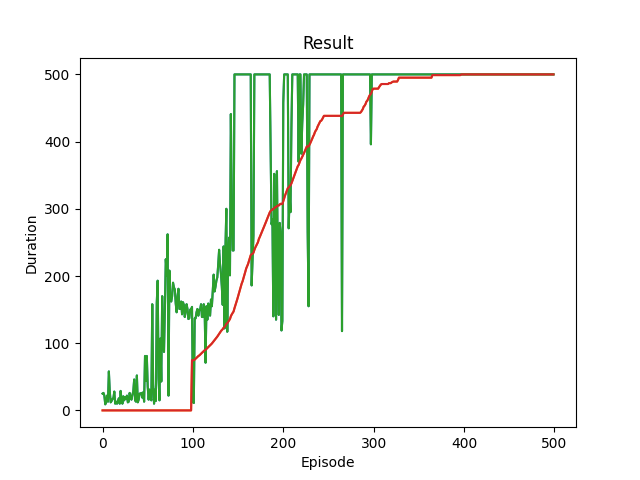
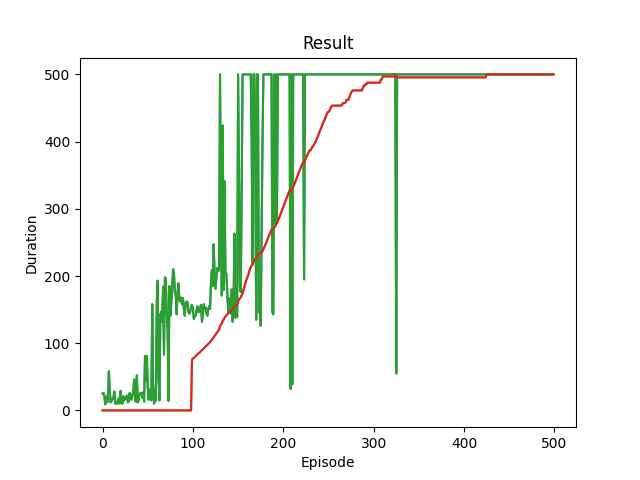
Update

Changed region(s): [[0.25, 0.125, 0.75, 0.8438]]

diff --git a/budi-cartpole-dqn.py b/budi-cartpole-dqn.py
@@ -44,21 +44,6 @@ def plot_durations(episode_durations, show_result=False):
             display.display(plt.gcf())
 
 def train_dqn(env, dqn_agent, num_episodes: int, seed: int, device, draw_chart: bool = False):
-    # random.seed(seed)
-    # torch.manual_seed(seed)
-    # env.reset(seed=seed)
-    # env.action_space.seed(seed)
-    # env.observation_space.seed(seed)
-
-    # if torch.cuda.is_available():
-    #     torch.cuda.manual_seed(seed)
-    
-    n_actions = env.action_space.n
-    state, info = env.reset()
-    n_observations = len(state)
-    print("dqn learning v1.30")
-
-    #dqn_agent = DQNAgent(n_observations, n_actions)
     episode_durations = []
 
     for i_episode in range(num_episodes):
@@ -67,16 +52,16 @@ def train_dqn(env, dqn_agent, num_episodes: int, seed: int, device, draw_chart: 
         for t in count():
             action = dqn_agent.select_action(state)
             observation, reward, terminated, truncated, _ = env.step(action.item())
-            next_state = torch.tensor(observation, dtype=torch.float32, device=device).unsqueeze(0)
             reward = torch.tensor([reward], device=device)
+            next_state = torch.tensor(observation, dtype=torch.float32, device=device).unsqueeze(0)
             dqn_agent.update(state, action, next_state, reward, terminated, truncated)
-            state = next_state
             if terminated or truncated:
                 episode_durations.append(t + 1)
                 print("episode ", i_episode, ", reward: ", t)
                 if draw_chart:
                     plot_durations(episode_durations)
                 break
+            state = next_state
     if draw_chart:
         plot_durations(episode_durations, True)
         plt.ioff()
@@ -92,10 +77,6 @@ if __name__ == "__main__":
     )
     seed = 42
     env = gym.make("CartPole-v1")
-    num_episodes = 500
-    n_observations = 4
-    n_actions = 2
-    # set seed before creating agent
     random.seed(seed)
     torch.manual_seed(seed)
     env.reset(seed=seed)
@@ -103,6 +84,10 @@ if __name__ == "__main__":
     env.observation_space.seed(seed)
     if torch.cuda.is_available():
         torch.cuda.manual_seed(seed)
+    n_actions = env.action_space.n
+    state, info = env.reset()
+    n_observations = len(state) #4
+    num_episodes = 500
     dqn_agent = DQNAgent(n_observations, n_actions, env, device)
     draw_chart = True
     train_dqn(env, dqn_agent, num_episodes, seed, device, draw_chart)

diff --git a/cartpole-dqn.py b/cartpole-dqn.py
@@ -13,8 +13,6 @@ import torch.nn.functional as F
 from dqn import DQN
 from replay_memory import Transition, ReplayMemory
 
-env = gym.make("CartPole-v1")
-
 # set up matplotlib
 is_ipython = 'inline' in matplotlib.get_backend()
 if is_ipython:
@@ -39,6 +37,7 @@ device = torch.device(
 
 
 seed = 42
+env = gym.make("CartPole-v1")
 random.seed(seed)
 torch.manual_seed(seed)
 env.reset(seed=seed)
@@ -68,9 +67,7 @@ LR = 3e-4
 n_actions = env.action_space.n
 # Get the number of state observations
 state, info = env.reset()
-n_observations = len(state)
-print("n_observations:", n_observations)
-
+n_observations = len(state) #4
 policy_net = DQN(n_observations, n_actions).to(device)
 target_net = DQN(n_observations, n_actions).to(device)
 target_net.load_state_dict(policy_net.state_dict())
@@ -98,6 +95,7 @@ def select_action(state):
         return torch.tensor([[env.action_space.sample()]], device=device, dtype=torch.long)
 
 
+criterion = nn.SmoothL1Loss()
 episode_durations = []
 
 
@@ -162,7 +160,6 @@ def optimize_model():
     expected_state_action_values = (next_state_values * GAMMA) + reward_batch
 
     # Compute Huber loss
-    criterion = nn.SmoothL1Loss()
     loss = criterion(state_action_values, expected_state_action_values.unsqueeze(1))
 
     # Optimize the model
@@ -178,11 +175,6 @@ else:
     num_episodes = 500
 
 print("num_episode:", num_episodes)
-
-max_x = 0
-max_x_dot = 0
-max_theta = 0
-max_theta_dot = 0
 
 for i_episode in range(num_episodes):
     # Initialize the environment and get its state
@@ -212,18 +204,13 @@ for i_episode in range(num_episodes):
             target_net_state_dict[key] = policy_net_state_dict[key]*TAU + target_net_state_dict[key]*(1-TAU)
         target_net.load_state_dict(target_net_state_dict)
 
-        # Move to the next state
-        state = next_state
         if terminated or truncated:
             episode_durations.append(t + 1)
             print("episode ", i_episode, ", reward: ", t)
             plot_durations()
             break
+        state = next_state
 
 plot_durations(show_result=True)
 plt.ioff()
 plt.show()
-
-
-# if __name__ == "__main__":
-#     print("start")

diff --git a/dqn_agent.py b/dqn_agent.py
@@ -36,10 +36,10 @@ class DQNAgent:
 
 
     def select_action(self, state):
-        self._steps_done += 1
         sample = random.random()
         eps_threshold = EPS_END + (EPS_START - EPS_END) * \
             math.exp(-1. * self._steps_done / EPS_DECAY)
+        self._steps_done += 1
         if sample > eps_threshold:
             with torch.no_grad():
                 # t.max(1) will return the largest column value of each row.
@@ -67,7 +67,6 @@ class DQNAgent:
         policy_net_state_dict = self._policy_net.state_dict()
         for key in policy_net_state_dict:
             target_net_state_dict[key] = policy_net_state_dict[key]*TAU + target_net_state_dict[key]*(1-TAU)
-        #print("target_net_state_dict: ", target_net_state_dict)
         self._target_net.load_state_dict(target_net_state_dict)
     
     def optimize_model(self):
